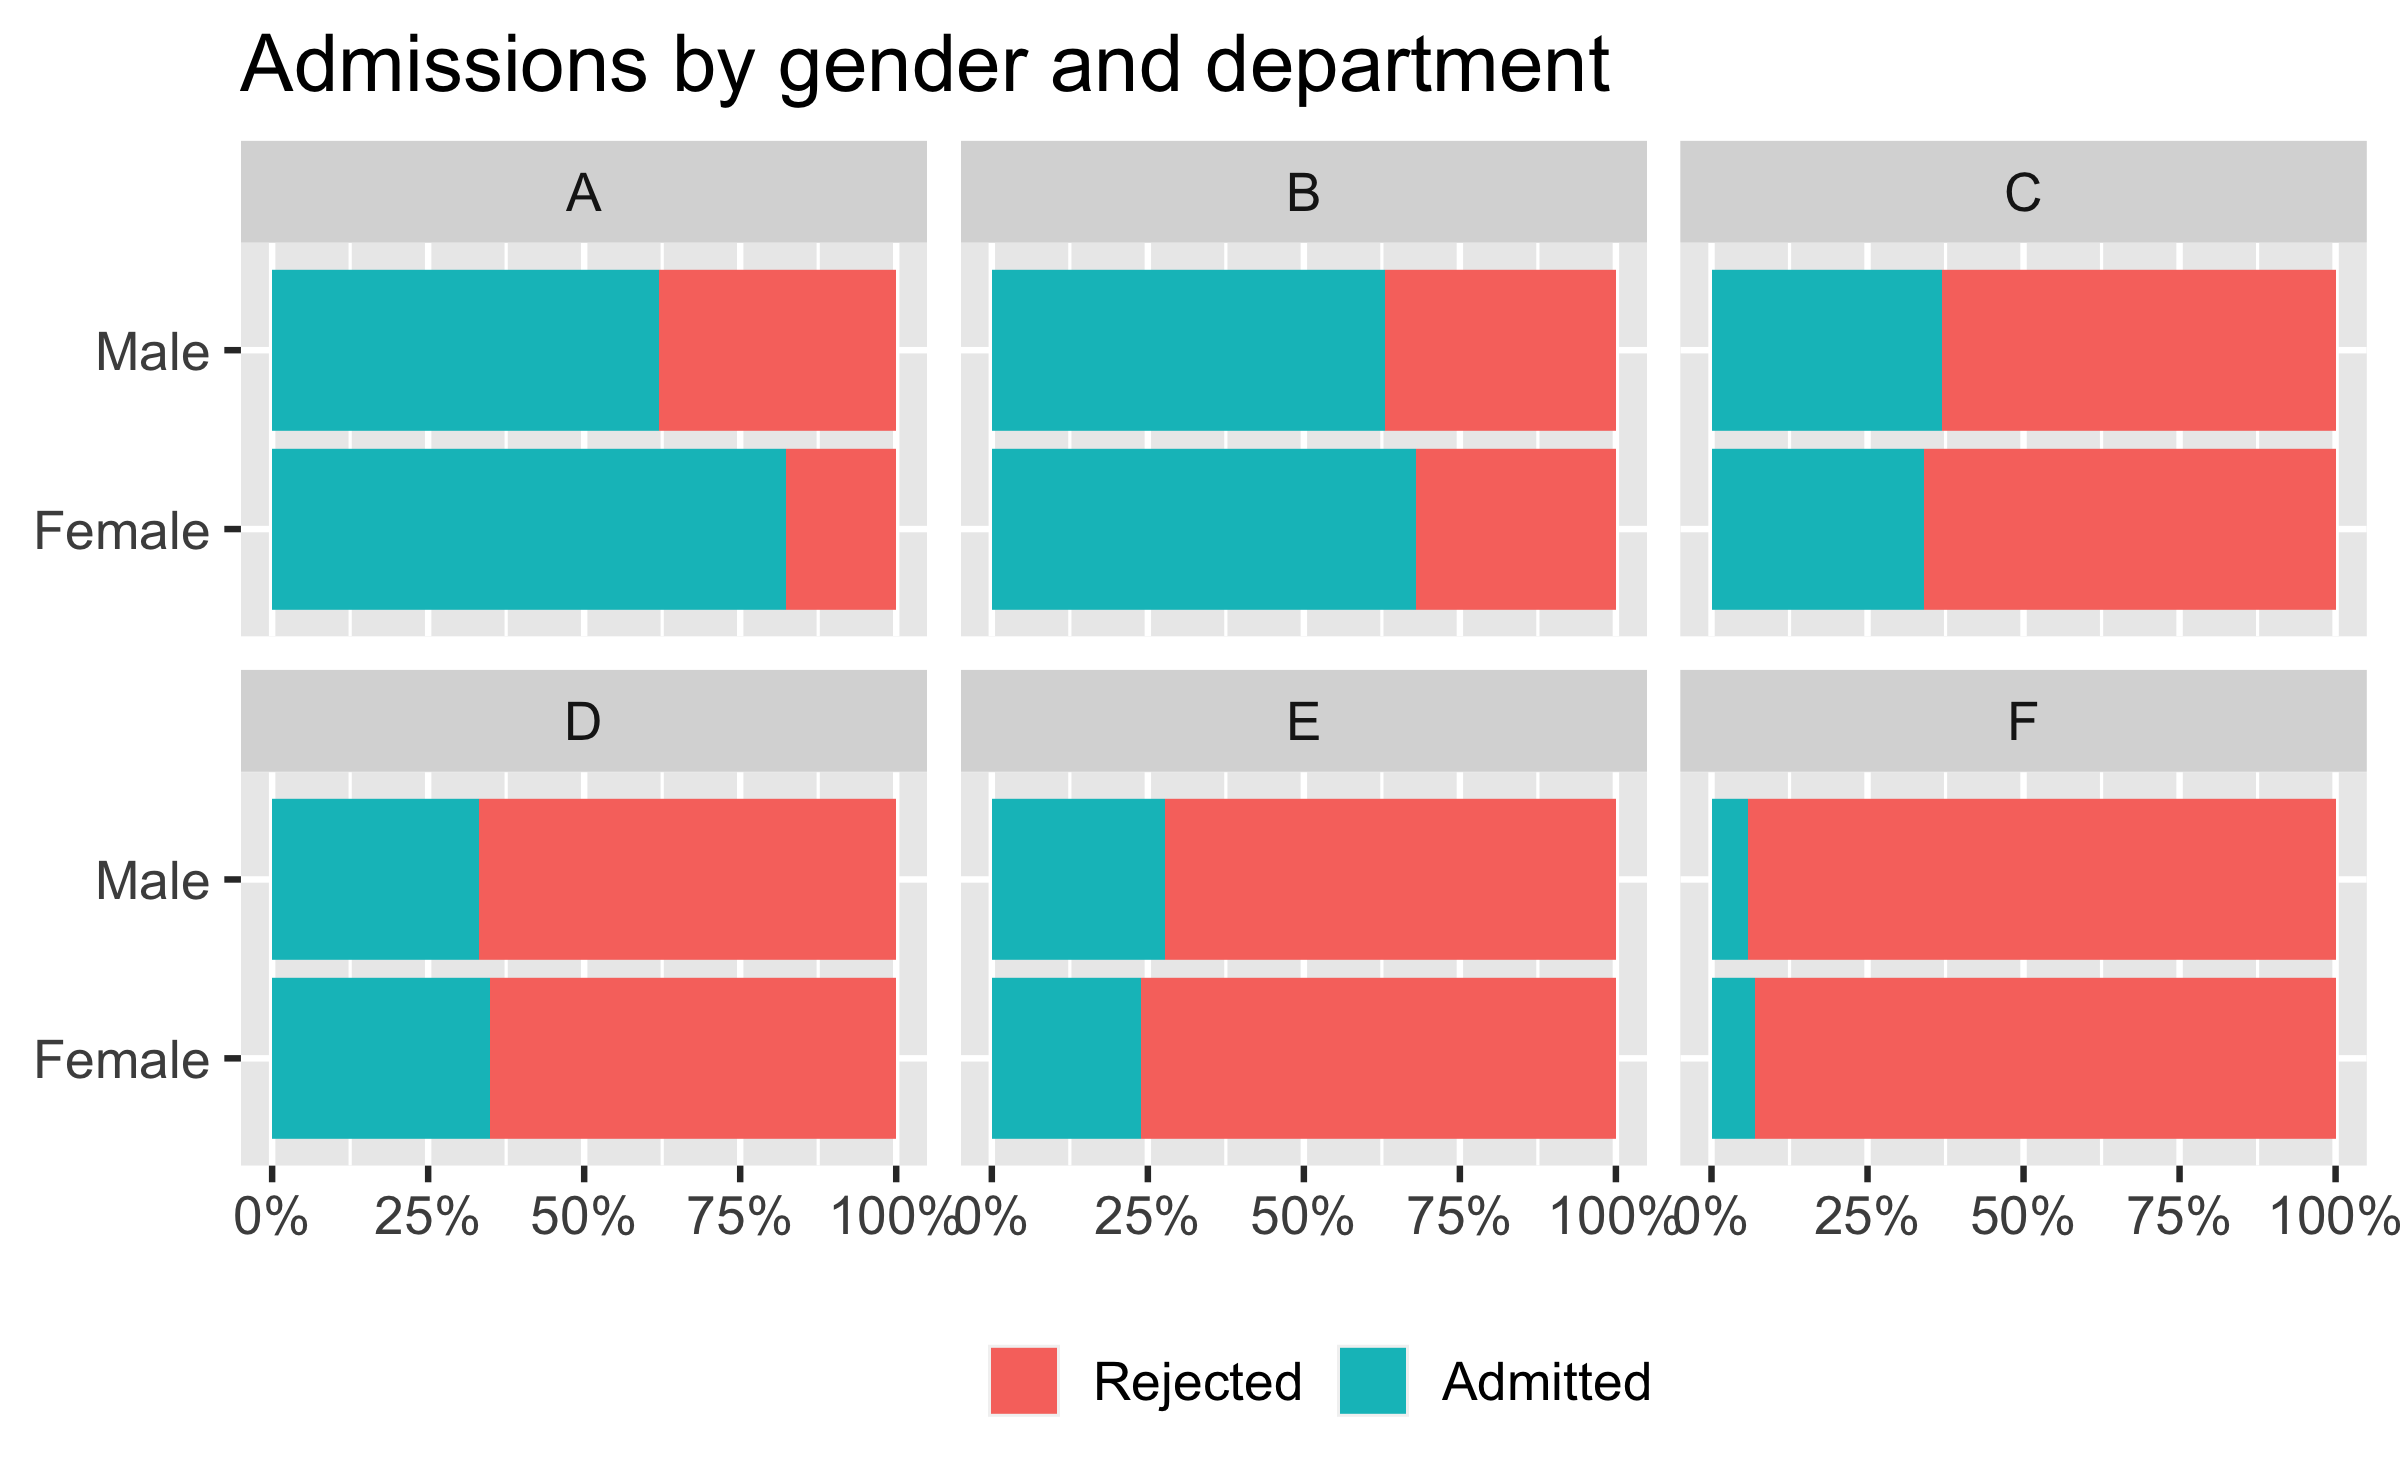
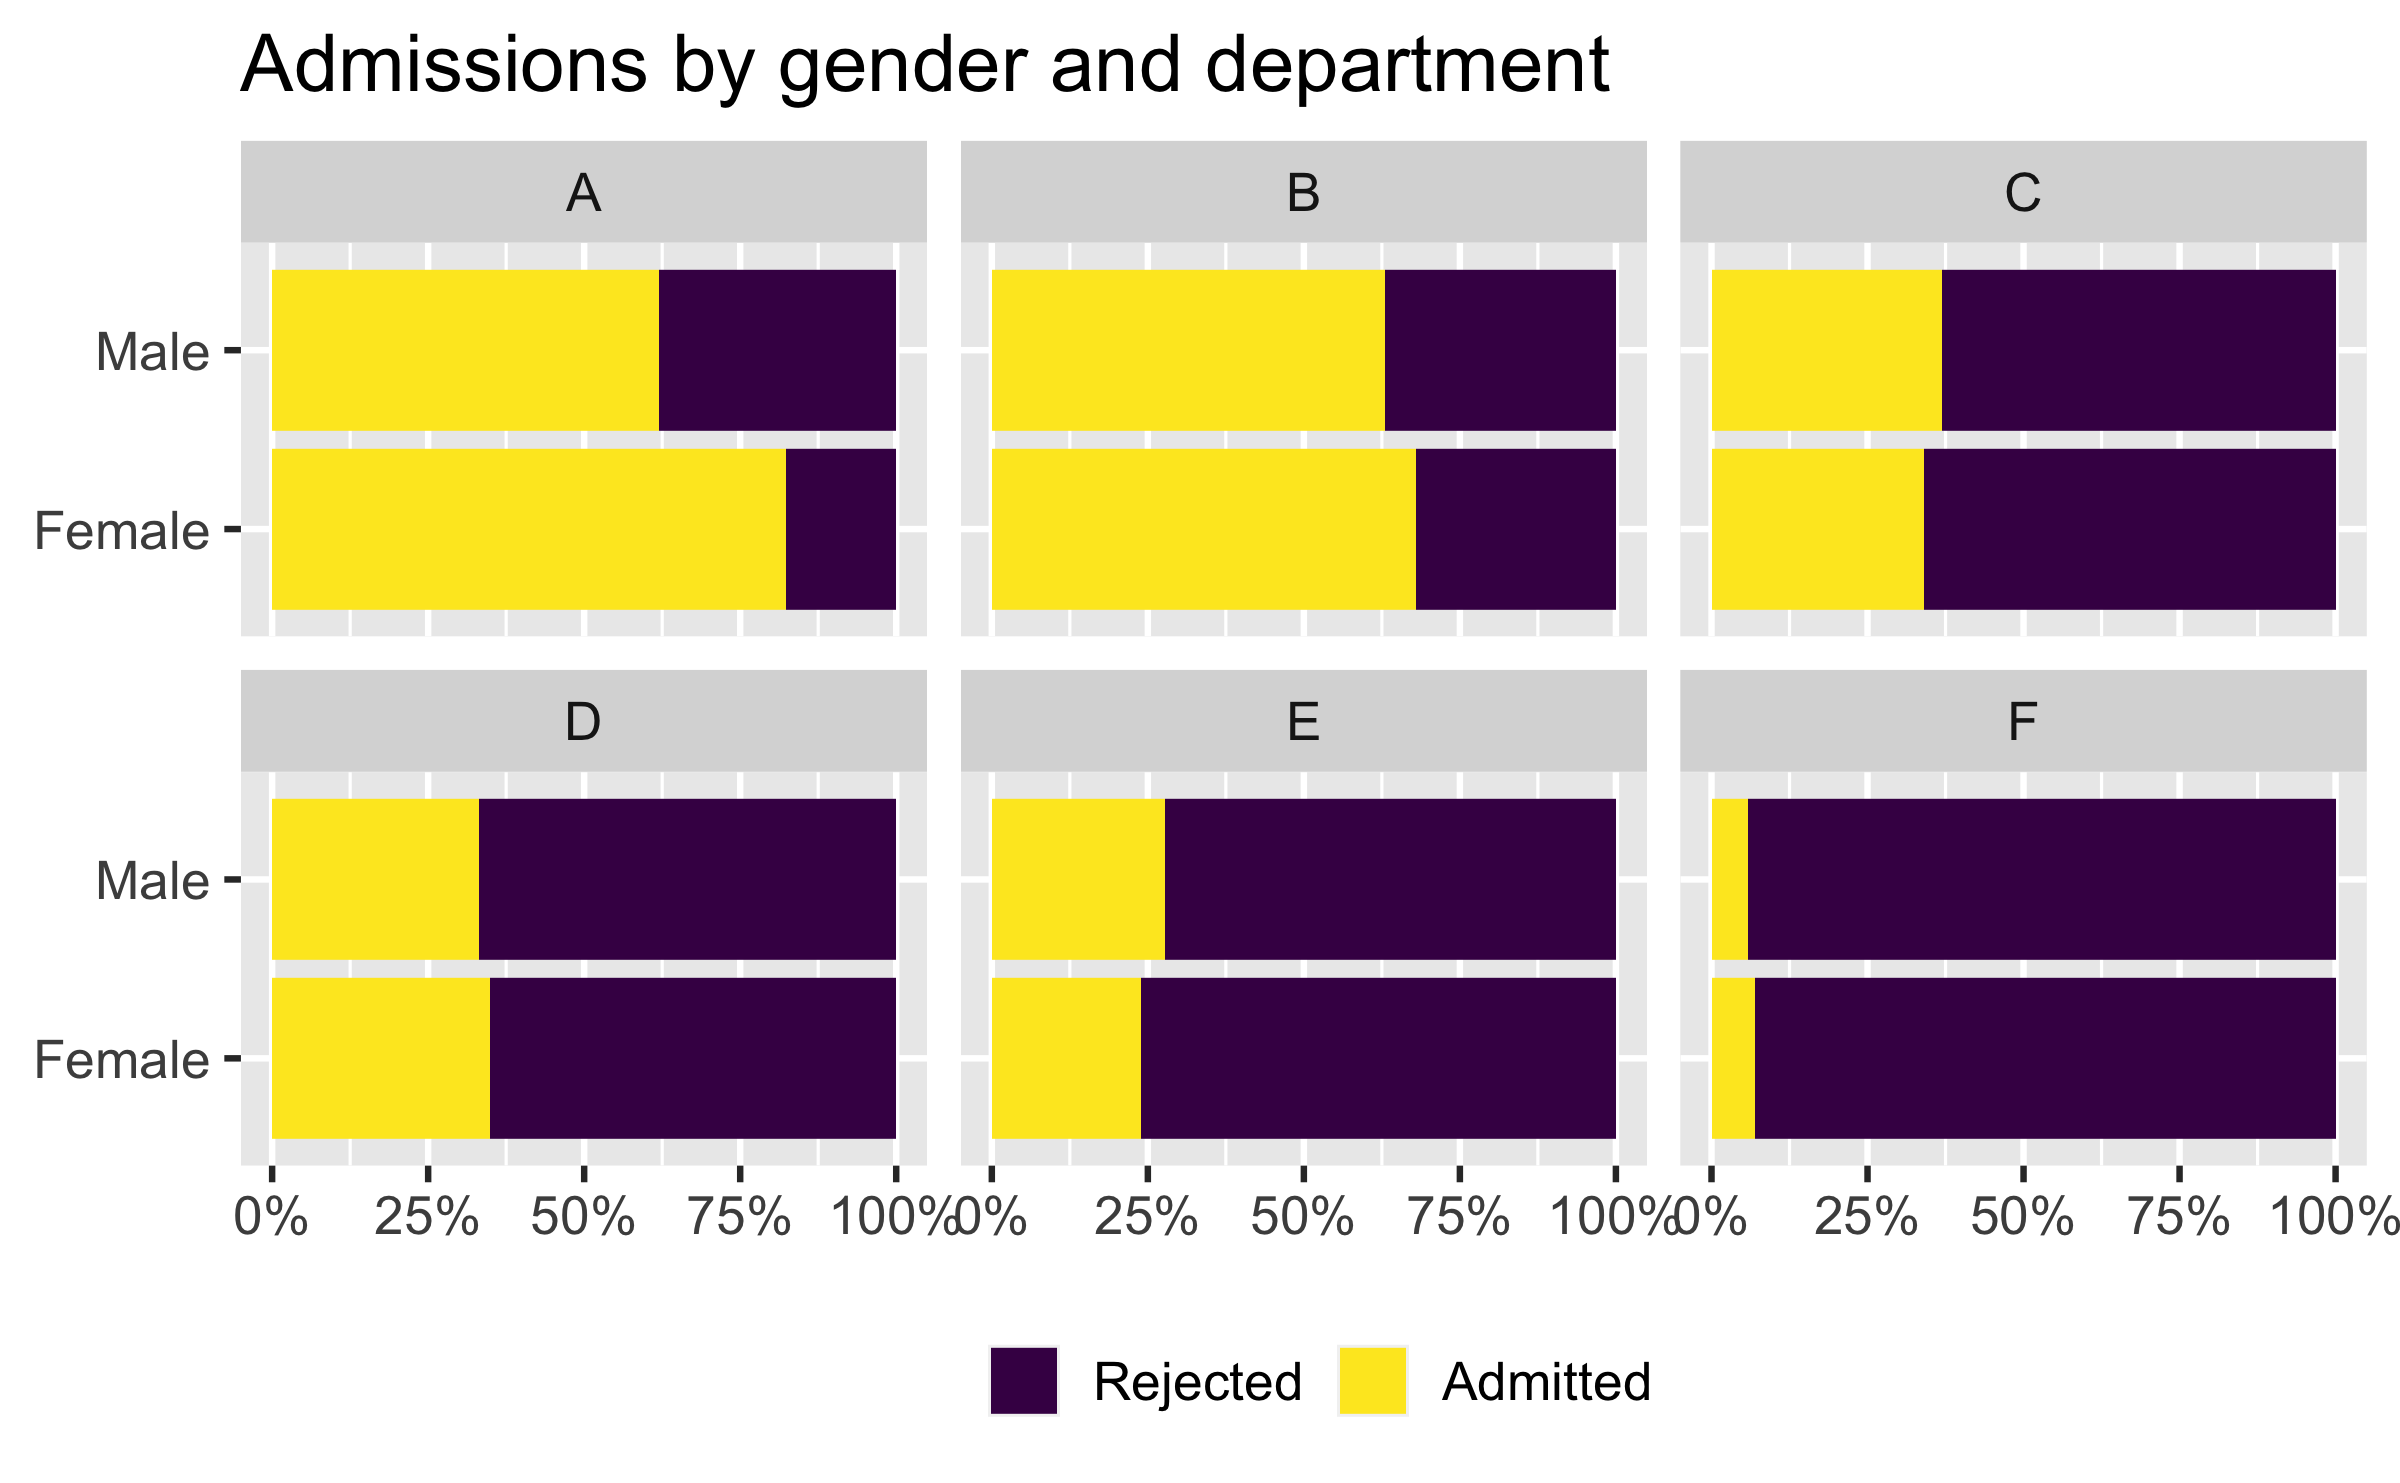
slides 18 change to color blind friendly

diff --git a/slides/18-simpsons-paradox.html b/slides/18-simpsons-paradox.html
@@ -171,6 +171,7 @@ ucbadmit %&gt;%
 ```r
 ggplot(ucbadmit, aes(y = gender, fill = admit)) +
   geom_bar(position = "fill") + 
+  scale_fill_viridis_d() +
   labs(title = "Admit by gender",
        y = NULL, x = NULL)
 ```
@@ -243,6 +244,7 @@ ggplot(ucbadmit, aes(y = gender, fill = admit)) +
   geom_bar(position = "fill") +
   facet_wrap(. ~ dept) +
   scale_x_continuous(labels = label_percent()) +
+  scale_fill_viridis_d() +
   labs(title = "Admissions by gender and department",
        x = NULL, y = NULL, fill = NULL) +
   theme(legend.position = "bottom")
